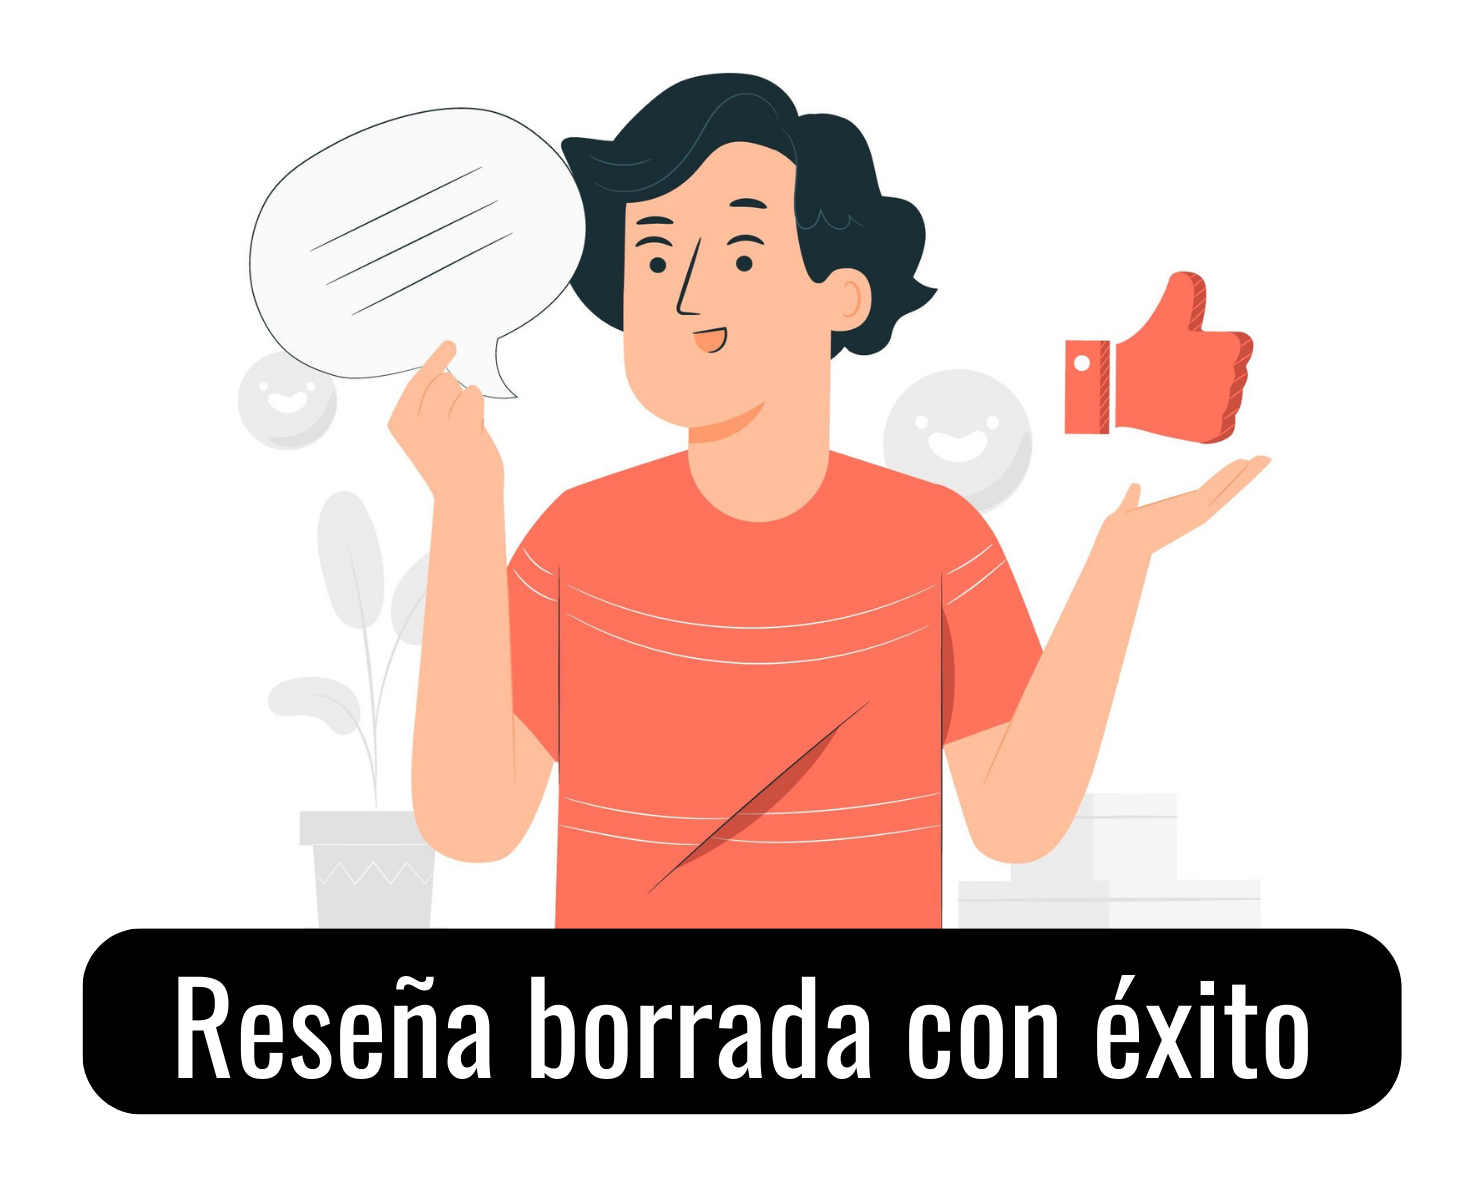
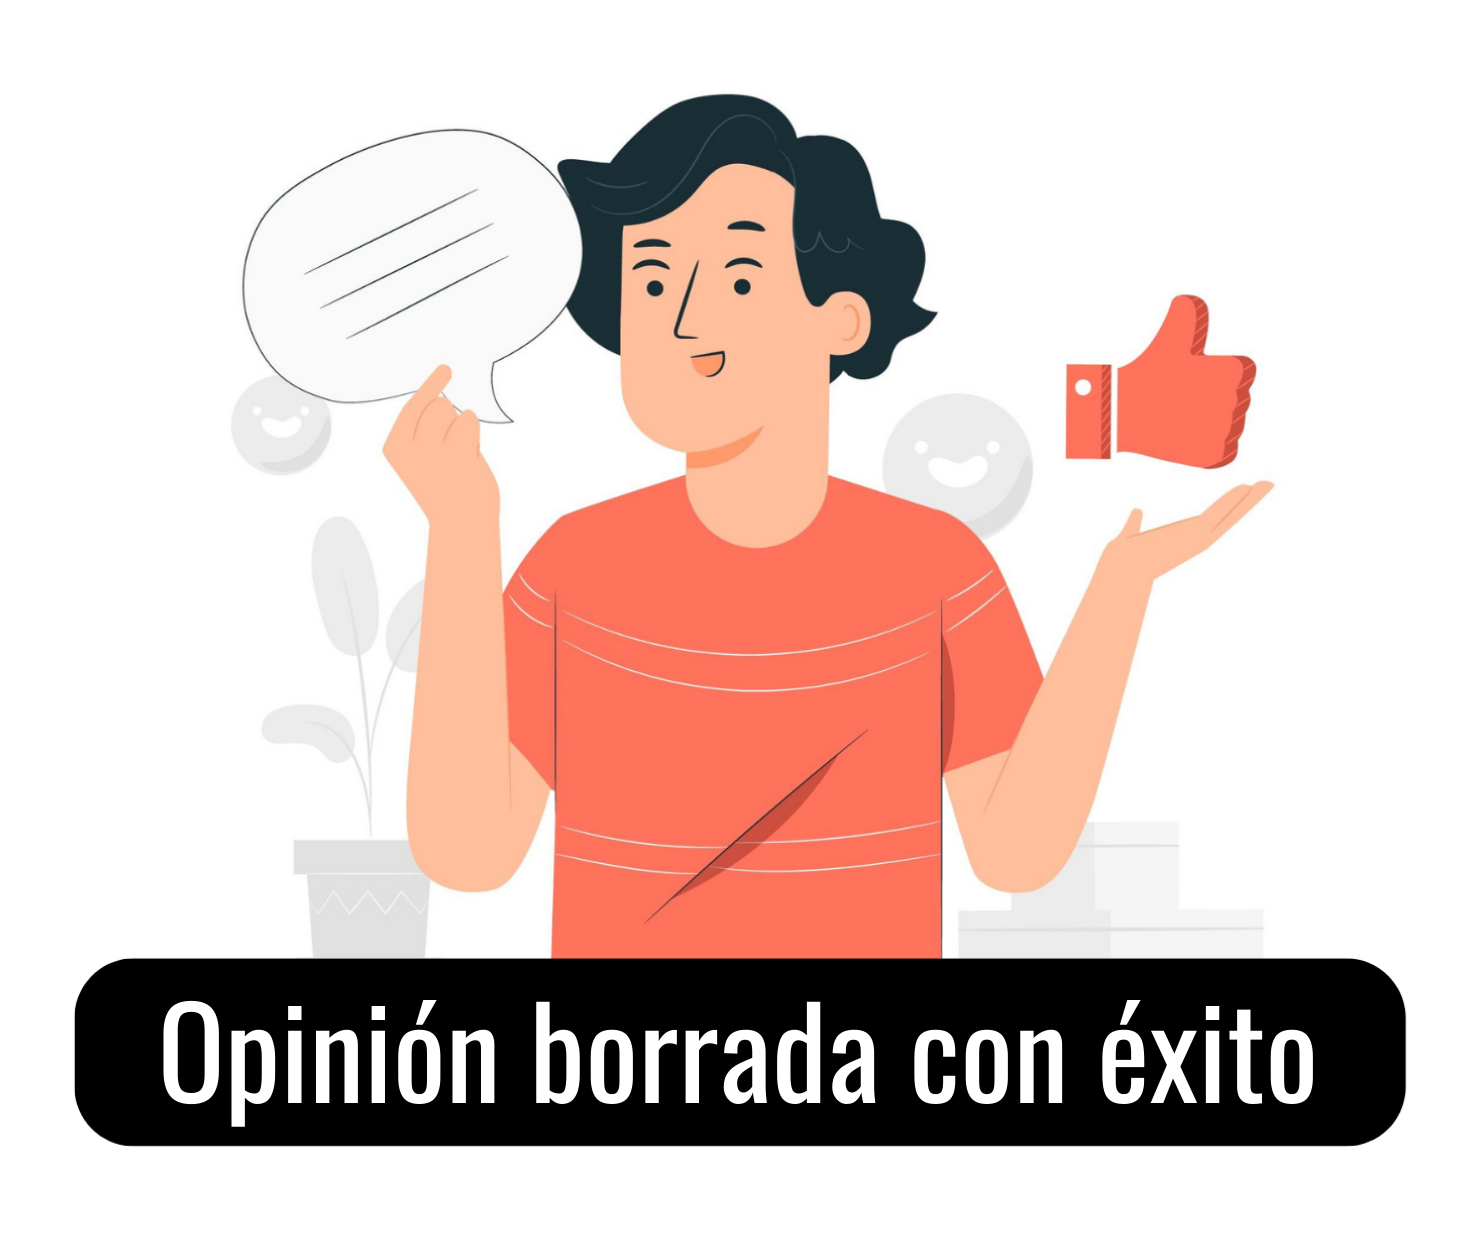
cambio imagenes resenas/opiniones

diff --git a/front/src/components/reviews/FormCreateReview.jsx b/front/src/components/reviews/FormCreateReview.jsx
@@ -148,7 +148,7 @@ const FormCreateReview = ({handleToggleForm, bookId, toggleModal}) => {
                 <label className="col-form-label ms-3" htmlFor='title'>Título:</label>
               </div>
               <div className="col-9">
-                <input className="form-control" id='title' type='text' value={input.title} name='title' placeholder='Dale un título a tu reseña' onChange={inputHandler} />
+                <input className="form-control" id='title' type='text' value={input.title} name='title' placeholder='Dale un título a tu opinión' onChange={inputHandler} />
                 {errors.title ? <p className="text-danger">{errors.title}</p> : null}
               </div>
             </div>
@@ -157,7 +157,7 @@ const FormCreateReview = ({handleToggleForm, bookId, toggleModal}) => {
                 <label className="col-form-label ms-3" htmlFor='comment'>Opinión:</label>
               </div>
               <div className="col-9">
-                <input className="form-control" id='comment' type='textarea' value={input.comment} name='comment' placeholder='Reseña...' onChange={inputHandler} />
+                <input className="form-control" id='comment' type='textarea' value={input.comment} name='comment' placeholder='Opinión...' onChange={inputHandler} />
                 {errors.comment ? <p className="text-danger">{errors.comment}</p> : null}
               </div>
             </div>
